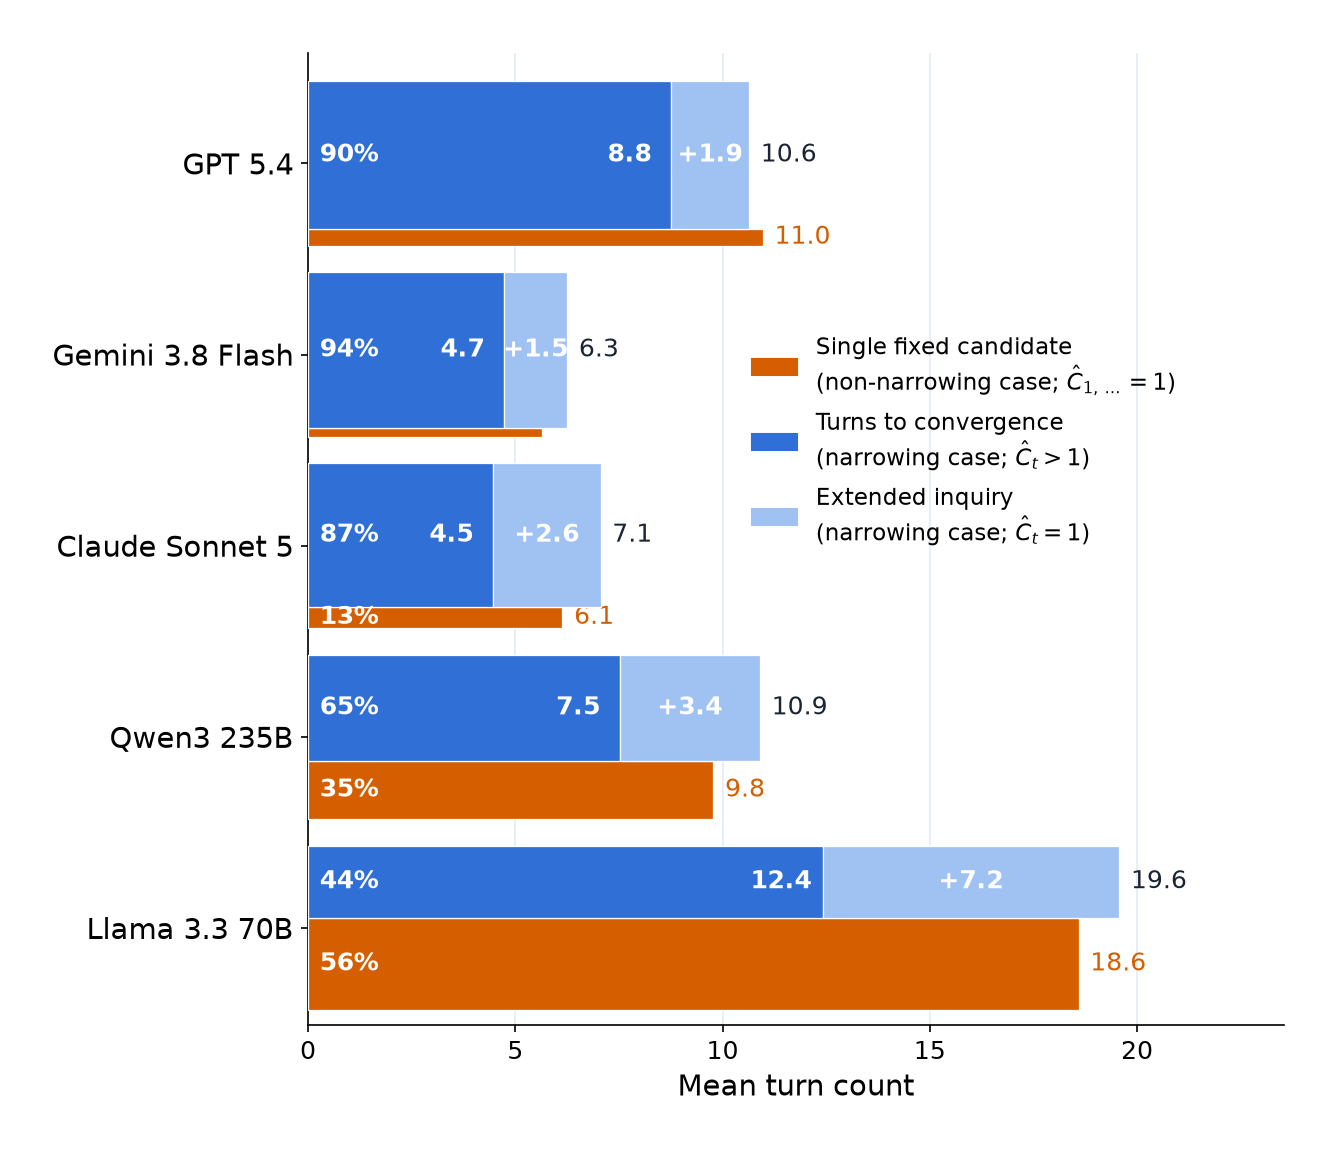
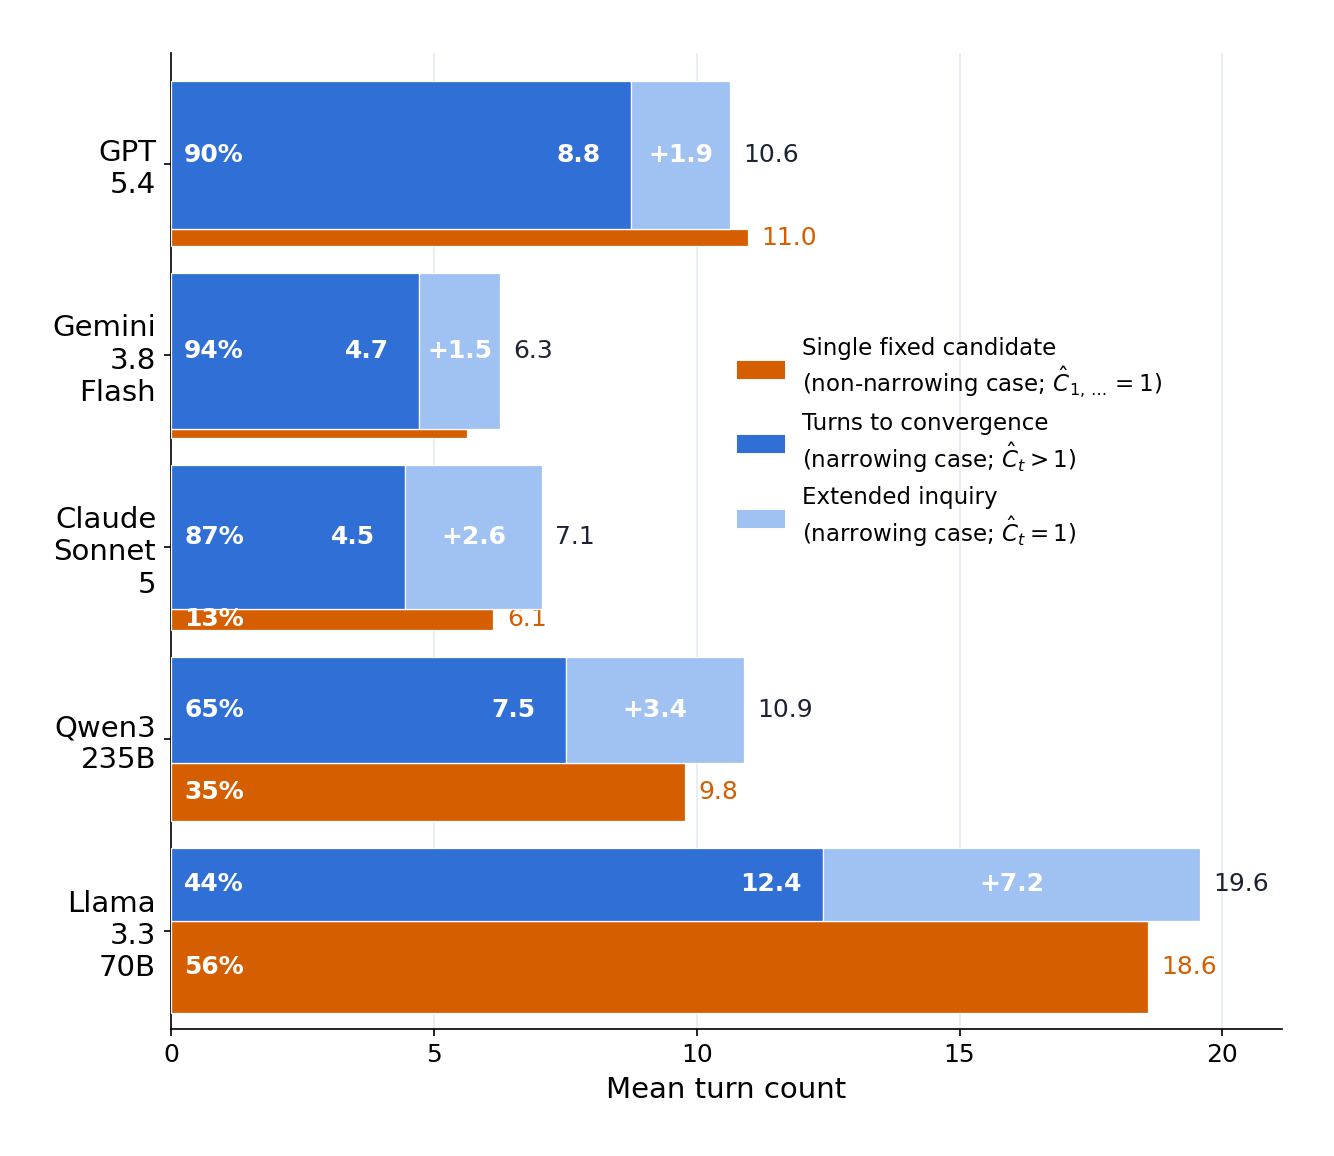
turn and overcommitment - bar

Changed region(s): [[0.0307, 0.0623, 0.9528, 0.9662], [0.5532, 0.2805, 0.8913, 0.4675], [0.3996, 0.0623, 0.6147, 0.2182]]

diff --git a/reporting/plot_overcommitment_marimekko.py b/reporting/plot_overcommitment_marimekko.py
@@ -93,7 +93,7 @@ def main() -> None:
     )
     ymax = max(ymax, max(
         (s["real_t1c_mean"] or 0) + (s["real_oc_mean"] or 0) for _j, rows in panels for _d, s in rows
-    )) * 1.18
+    )) * 1.06
 
     for judge, rows in panels:
         fig, ax = plt.subplots(figsize=(8.5, 1.1 * len(rows) + 1.8))
@@ -153,11 +153,20 @@ def main() -> None:
                 ax.text(ymax * 0.012, slot_bottom + pinned_h + narrow_h / 2, f"{narrow_frac*100:.0f}%",
                         ha="left", va="center", fontsize=12, color="white", fontweight="bold")
 
+        # Break each canonical name onto two lines (before the last word) so
+        # long names don't force extra left margin on the y-axis.
+        def _break_name(name: str) -> str:
+            parts = name.split(" ")
+            return "\n".join(parts)
+
         ax.set_yticks([(n_rows - 1 - i) * SLOT_GAP + SLOT_WIDTH / 2 for i in range(n_rows)])
-        ax.set_yticklabels([DOCTOR_NAME_CANONICAL.get(d, d) for d, _s in rows], fontsize=14)
+        ax.set_yticklabels(
+            [_break_name(DOCTOR_NAME_CANONICAL.get(d, d)) for d, _s in rows], fontsize=14
+        )
         legend_band = 0.15
         ax.set_ylim(-0.08, (n_rows - 1) * SLOT_GAP + SLOT_WIDTH + legend_band)
         ax.set_xlim(0, ymax)
+        ax.set_xticks(np.arange(0, ymax, 5))
         # ax.set_title(f"Judge: {judge}", fontsize=12.5, fontweight="bold", pad=10)
         ax.grid(axis="x", color="#E4EBF5", linewidth=0.8, zorder=0)
         ax.spines[["top", "right"]].set_visible(False)
